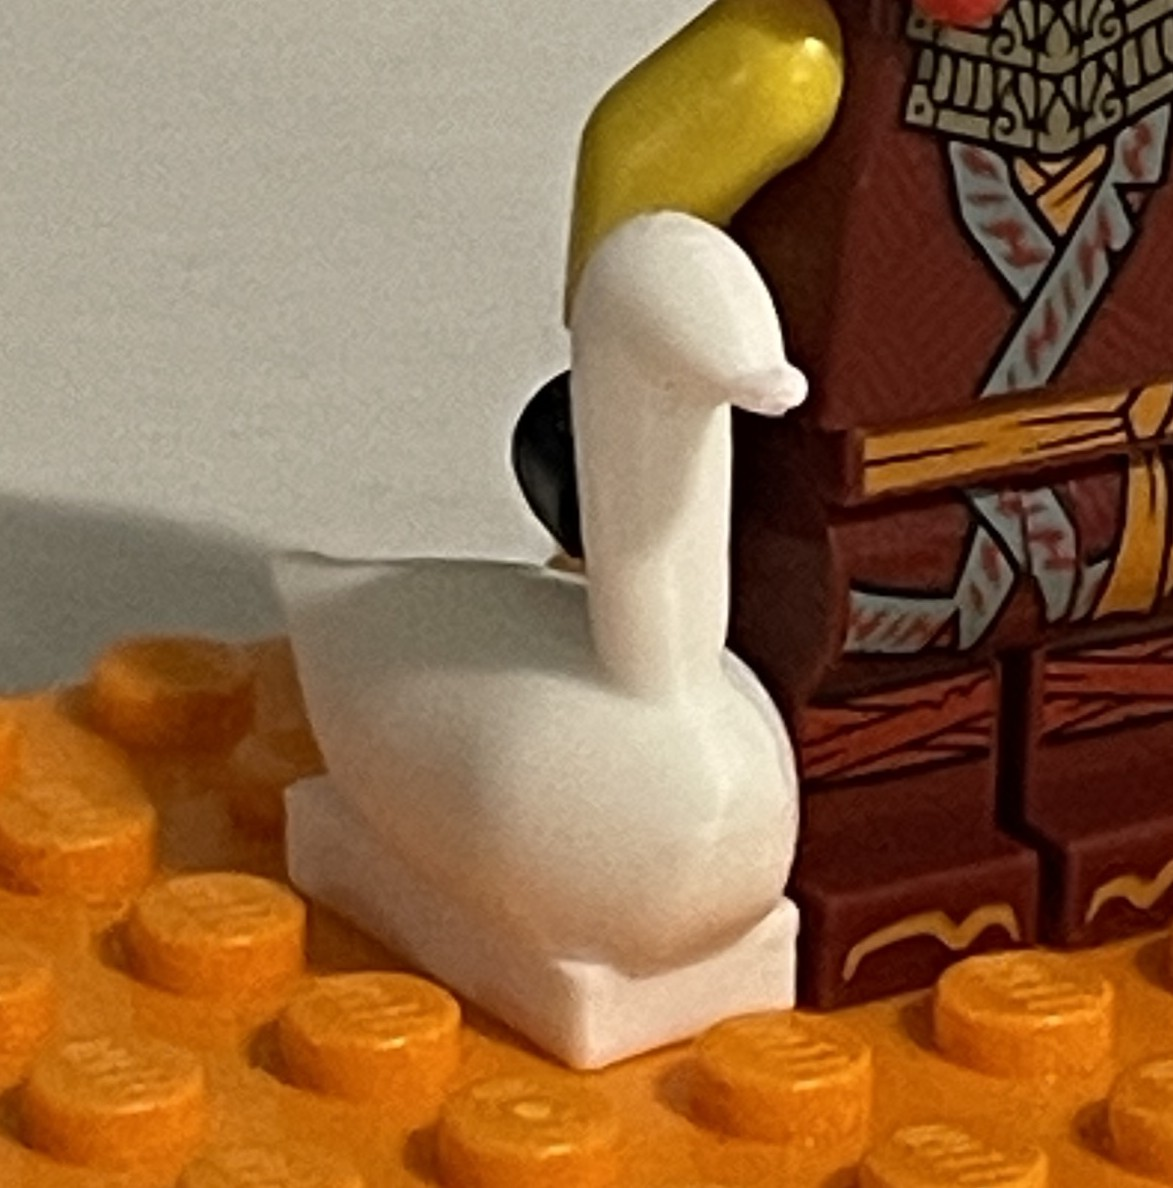
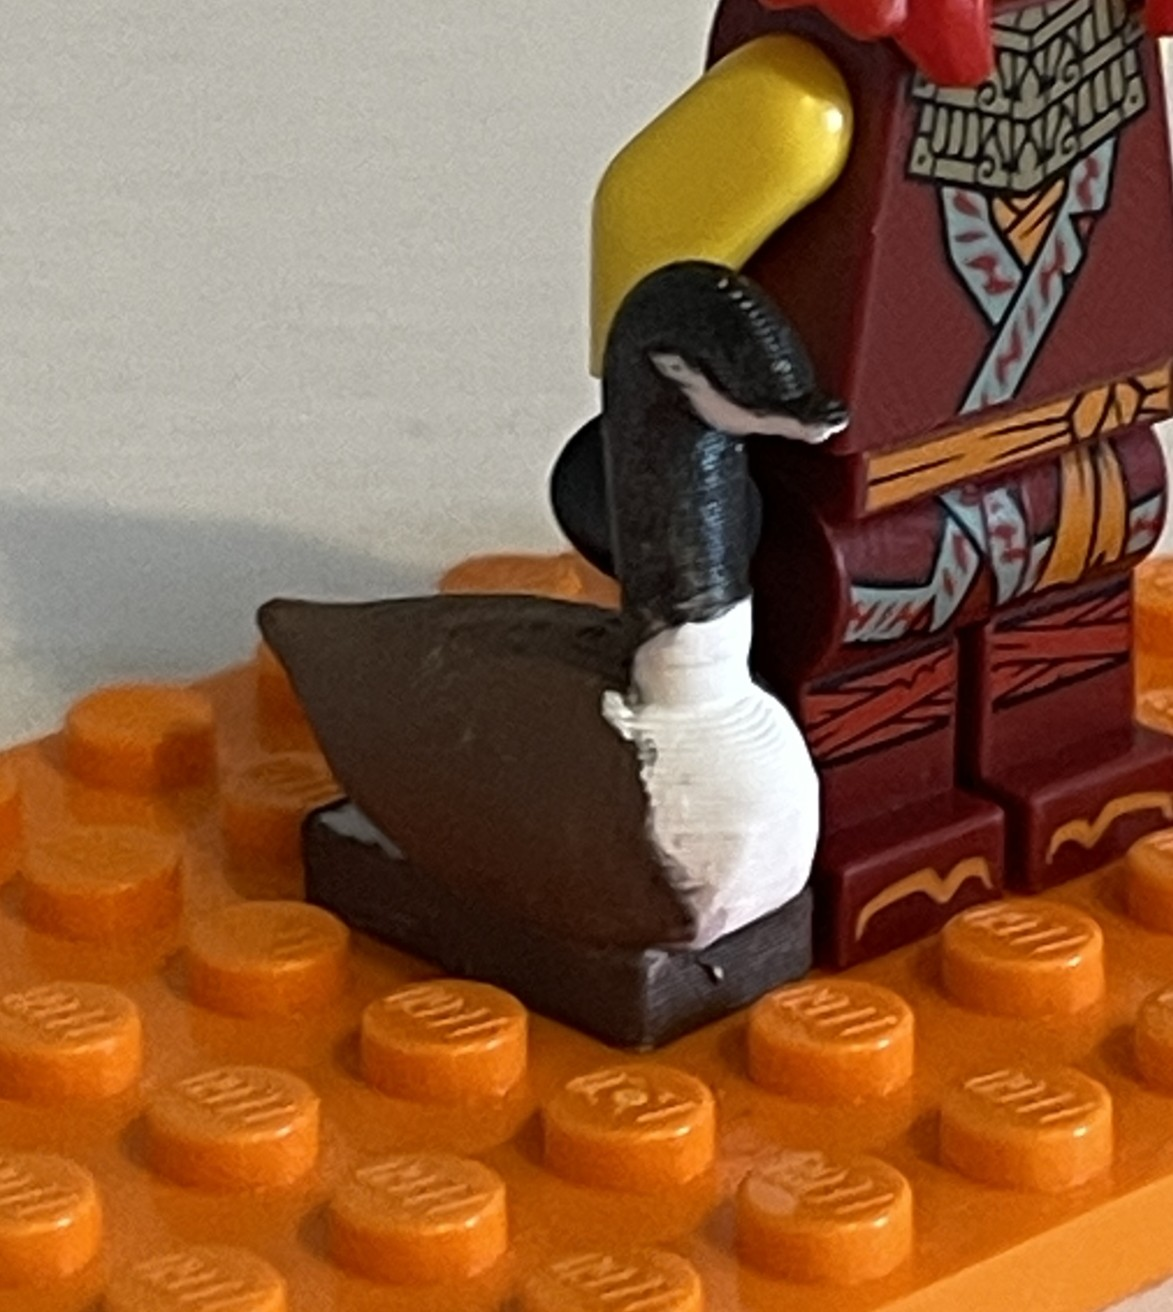
Updated goose project to include painted model

diff --git a/LEGO-goose.html b/LEGO-goose.html
@@ -48,7 +48,7 @@
             <div class="skill-tag-container">
                 <span class="skill-tag">Autodesk Fusion 360</span>
                 <span class="skill-tag">SOLIDWORKS</span>
-                <span class="skill-tag">3D-Printing</span>
+                <span class="skill-tag">3D printing</span>
                 <span class="skill-tag">Sketching</span>
             </div>
         </div>
@@ -111,15 +111,16 @@
 
             <div class="multiple-images">
                 <figure>
+                    <img src="images/goosePlush.JPG" class="image-custom" style="width: 200px;">
+                    <figcaption>Plush toy used as inspiration for stylization</figcaption>
+                </figure>
+                <figure>
                     <img src="images/gooseConceptPlanning.jpg" class="image-custom" style="width: 350px;">
                     <figcaption>Concept design research (original image from <a
                             href="https://www.allaboutbirds.org/guide/Canada_Goose/photo-gallery/59953191"
                             target="_blank">allaboutbirds.org</a>)</figcaption>
                 </figure>
-                <figure>
-                    <img src="images/goosePlush.JPG" class="image-custom" style="width: 200px;">
-                    <figcaption>Plush toy used as inspiration for stylization</figcaption>
-                </figure>
+
             </div>
 
 
@@ -146,7 +147,7 @@
 
                 <figure>
                     <img src="images/gooseIterations.JPG" class="image-custom" style="width: 350px;">
-                    <figcaption>Various 3D-printed prototypes</figcaption>
+                    <figcaption>Various 3D-printed prototypes tested on a LEGO baseplate</figcaption>
                 </figure>
 
                 <figure>
@@ -155,7 +156,19 @@
                 </figure>
 
             </div>
+            <h4 style="color: var(--primary-color);">Step 4: Painting the goose</h4>
 
+            <div class="multiple-images">
+                <figure>
+                    <img src="images/goosePaintDesign.jpg" class="image-custom" style="width: 300px;">
+                    <figcaption>Paint design planning based on SOLIDWORKS side view</figcaption>
+                </figure>
+                <figure>
+                    <img src="images/goosePainted.JPG" class="image-custom" style="width: 270px;">
+                    <figcaption>Painted final model</figcaption>
+                </figure>
+
+            </div>
         </div>
     </div>
 
@@ -171,15 +184,16 @@
                     stylized, organic geometry that captures the essence of a goose in a playful way
                 </li>
 
-                <li class="base-text"> Appropriate scale and size for integration into the LEGO System in Play, allowing for side-by-side placement with
+                <li class="base-text"> Appropriate scale and size for integration into the LEGO System in Play, allowing
+                    for side-by-side placement with
                     minifigures and repeatable use
                 </li>
 
             </ul>
 
             <figure>
-                <img src="images/GooseWithMinifig.jpg" class="image-custom" style="width: 300px;">
-                <figcaption>Goose next to minifigure on a LEGO baseplate</figcaption>
+                <img src="images/gooseWithMinifig.jpg" class="image-custom" style="width: 300px;">
+                <figcaption>Goose next to LEGO minifigure</figcaption>
             </figure>
         </div>
 
